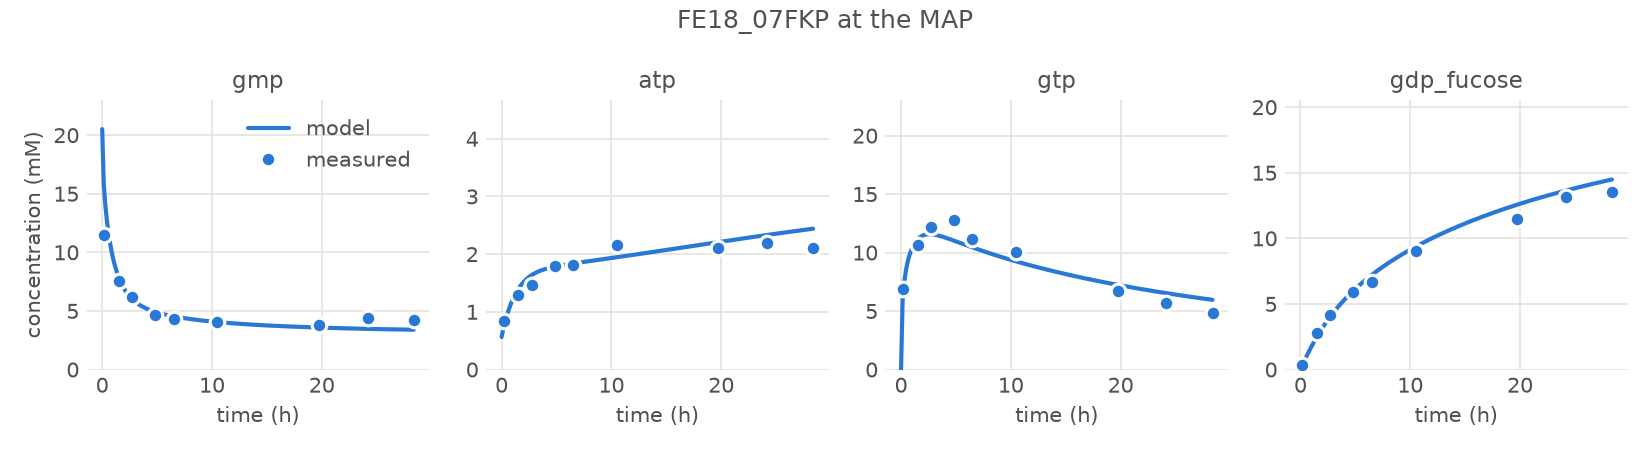
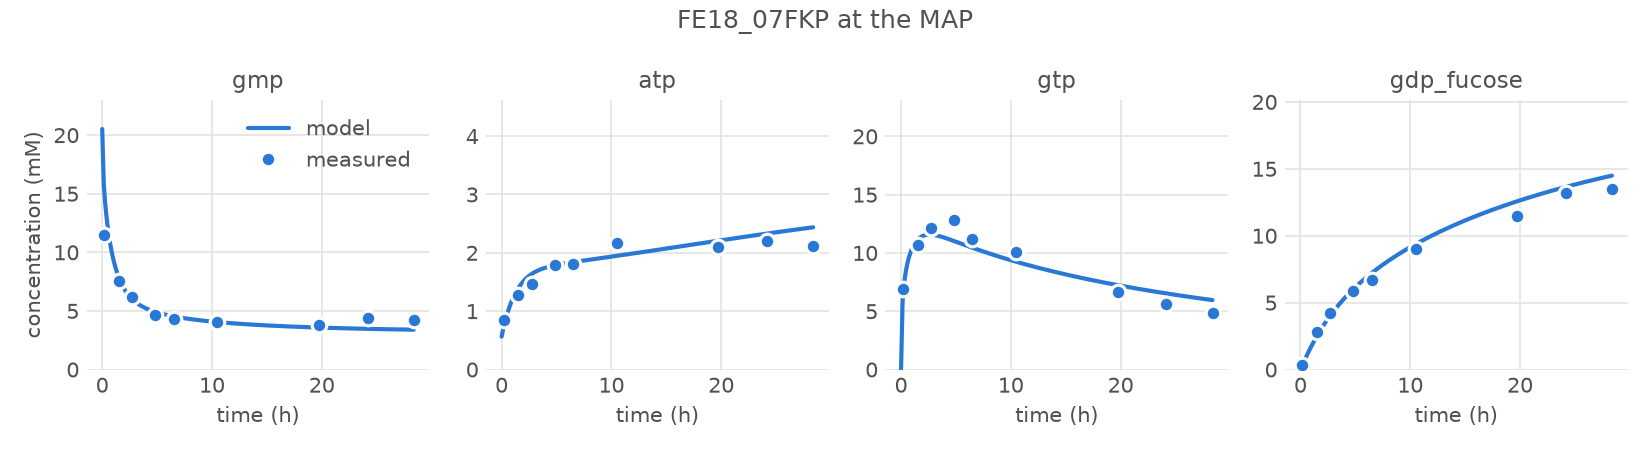
Drop AMP phosphorylation by PPK3 from the cascade model
Removing PPK3_M left the training fit unchanged and lowered the
validation log predictive density by about 10, and its kcat fell far
below its prior in the posterior, so the data give no reason to keep
it. Panel A and the time course docs follow, and the docs images come
from the new mode.

Claude-Session: https://claude.ai/code/session_016s6nyrkXaTrpJDHX5zC1cg

diff --git a/src/enzax/examples/gdp_fucose.py b/src/enzax/examples/gdp_fucose.py
@@ -6,10 +6,9 @@ The model is the one in https://github.com/dtu-qmcm/gdp_fucose_enzax, which
 fixes problems with the model as published, with these changes. It leaves out
 that implementation's competitive inhibition of FKP_fk by pyrophosphate:
 pyrophosphate inhibition of FKP_fk or of FKP_gt fits the fitting runs better
-but predicts the validation runs worse. PPK3 also phosphorylates AMP
-(PPK3_M), as class III PPK2 enzymes do, and its three reactions share one
-active site: each has another's reactants as competitive inhibitors, with
-that reaction's Michaelis constants as inhibition constants, and all share
+but predicts the validation runs worse. PPK3's two reactions share one
+active site: each has the other's reactants as competitive inhibitors, with
+that reaction's Michaelis constants as inhibition constants, and both share
 one Michaelis constant for polyphosphate. ATP_HYDROLYSIS, a first-order loss
 of ATP, stands for slow non-enzymatic and contaminant ATPase activity. Each
 run's ATP stock carries ATP_STOCK_IMPURITY of its ATP as AMP and as ADP. The
@@ -163,7 +162,6 @@ KCAT = {
     "PPA": 558000.0,
     "PPK3_A": 18780.0,
     "PPK3_G": 15048.0,
-    "PPK3_M": 1000.0,
     "UNKNOWN_HYDROLASE": 0.1,
     "ATP_HYDROLYSIS": 0.05,
 }
@@ -182,8 +180,6 @@ SATURATION_CONSTANTS = {
     "km|PPK3_A|atp": 2.0,
     "km|PPK3_G|gdp": 1.2,
     "km|PPK3_G|gtp": 0.1,
-    "km|PPK3_M|amp": 1.0,
-    "km|PPK3_M|adp": 1.0,
     "km|UNKNOWN_HYDROLASE|amp": 0.5,
     "km|PPK3|polyp": 3.0,
 }
@@ -255,15 +251,6 @@ model = KineticModel(
             competitive_inhibitors={
                 "adp": "km|PPK3_A|adp",
                 "atp": "km|PPK3_A|atp",
-            },
-        ),
-        "PPK3_M": MichaelisMenten(
-            stoichiometry={"amp": -1.0, "polyp": -1.0, "adp": 1.0},
-            enzyme="ppk3",
-            michaelis_constants={"polyp": "km|PPK3|polyp"},
-            competitive_inhibitors={
-                "gdp": "km|PPK3_G|gdp",
-                "gtp": "km|PPK3_G|gtp",
             },
         ),
         "UNKNOWN_HYDROLASE": SymbolicReaction(

diff --git a/case_studies/cascade/network.py b/case_studies/cascade/network.py
@@ -1,8 +1,8 @@
 """Draw the cascade network for panel A of the cascade figure.
 
 Species and reactions sit at hand-placed positions, with GMPK's rapid
-equilibrium in orange, the reactions added to Huber et al.'s model (PPK3_M
-and ATP_HYDROLYSIS) in violet, the postulated hydrolase in aqua and measured
+equilibrium in orange, the reaction added to Huber et al.'s model
+(ATP_HYDROLYSIS) in violet, the postulated hydrolase in aqua and measured
 species in bold. Drawing reactions or inhibitions that differ from the
 model's raises an error. Running the module directly saves
 results/network.png.
@@ -33,7 +33,6 @@ RAPID_COLOUR = "#eb6834"
 ADDED_COLOUR = "#6250d6"
 POSTULATED_COLOUR = "#1baf7a"
 REACTION_COLOURS = {
-    "PPK3_M": ADDED_COLOUR,
     "ATP_HYDROLYSIS": ADDED_COLOUR,
     "UNKNOWN_HYDROLASE": POSTULATED_COLOUR,
 }
@@ -105,13 +104,6 @@ REACTIONS = {
         "ha": "right",
         "va": "center",
         "side": -1,
-    },
-    "PPK3_M": {
-        "legs": ["amp", "adp"],
-        "bend": -5.5,
-        "label": (27.5, 30.2),
-        "va": "top",
-        "side": 1,
     },
     "ATP_HYDROLYSIS": {
         "legs": ["atp", "adp"],

diff --git a/case_studies/cascade/common.py b/case_studies/cascade/common.py
@@ -52,7 +52,7 @@ FITTING_EXPERIMENTS = [
 ]
 PRIOR_SD = 1.0
 WIDE_PRIOR_SD = {
-    "log_kcat": {"PPK3_M": 3.0, "ATP_HYDROLYSIS": 3.0},
+    "log_kcat": {"ATP_HYDROLYSIS": 3.0},
     "log_saturation_constant": {"ki|FKP_fk|gdp_fucose": 3.0},
 }
 INITIAL_AMOUNT_SD = {
@@ -96,8 +96,6 @@ FREE_PARAMETERS = {
         "km|PPK3_G|gdp",
         "km|PPK3_G|gtp",
         "km|PPK3|polyp",
-        "km|PPK3_M|amp",
-        "km|PPK3_M|adp",
     ],
     "dgf": ["atp", "gdp", "gmp"],
 }

diff --git a/docs/time_courses.md b/docs/time_courses.md
@@ -139,8 +139,6 @@ split = split_parameters_by_freeing(
             "km|PPK3_G|gdp",
             "km|PPK3_G|gtp",
             "km|PPK3|polyp",
-            "km|PPK3_M|amp",
-            "km|PPK3_M|adp",
         ],
         "dgf": ["atp", "gdp", "gmp"],
     },
